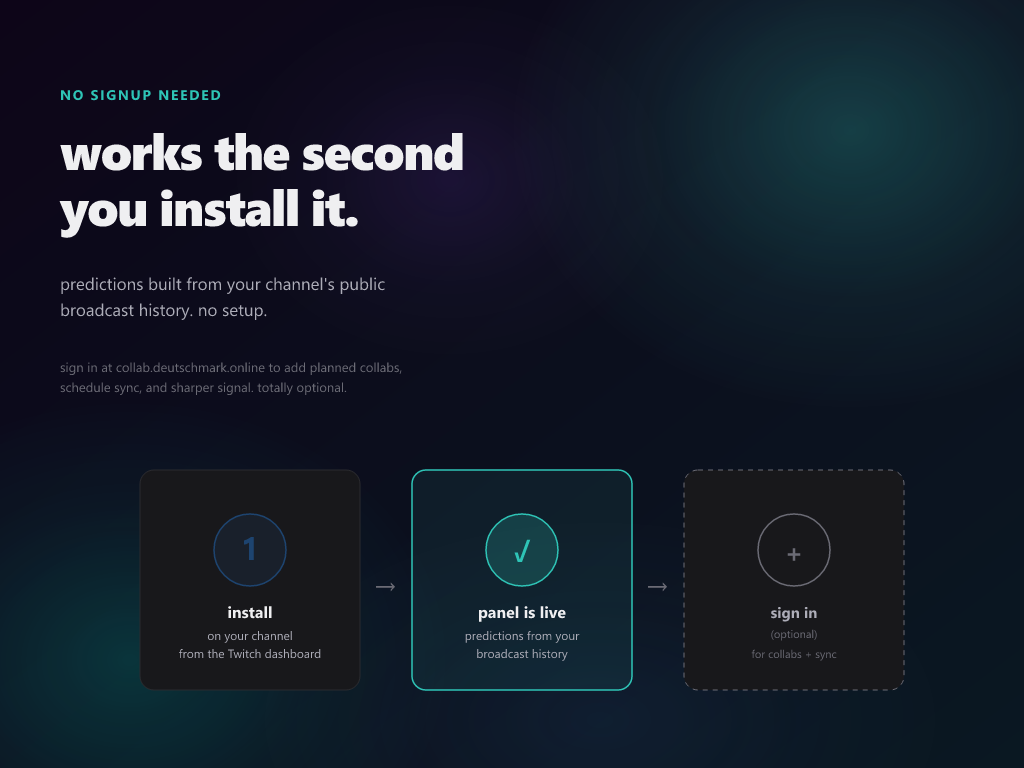
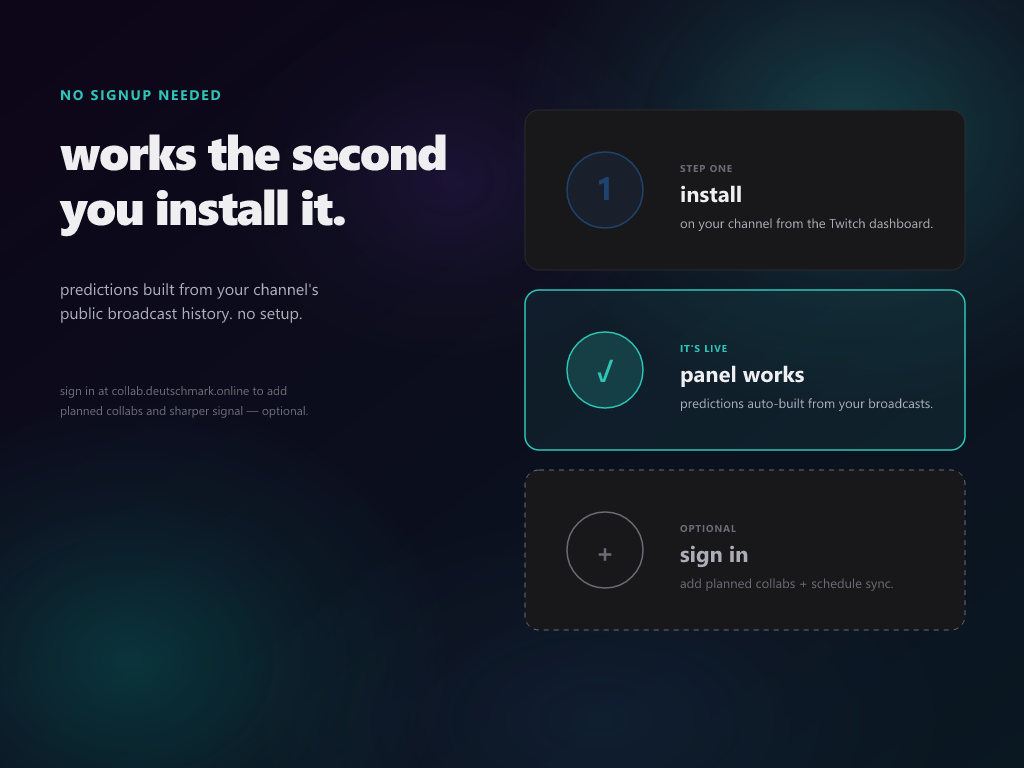
0.12.0: screenshots 1+3 mirror screenshot 2 layout; dead-space fix
Screenshots:
- screenshot-1 restructured: text-block left + 2×2 feature-card grid
  right (next live / week view / recent games / collab teasers).
  Same composition as screenshot 2's color-swatch grid.
- screenshot-3 restructured: text-block left + 3 stacked stage cards
  right (install / panel works / sign in optional). Each card has its
  own state-tag (STEP ONE / IT'S LIVE / OPTIONAL) so they read as a
  vertical reading sequence not 'three boxes in a row'.

Panel dead-space fix:
- body + #root are flex columns spanning the iframe height.
- .powered-by has margin-top: auto so the footer pushes to the bottom
  edge of the 500px slot regardless of content length above.
- For non-CP users or sparse data, content sits at the top and the
  footer anchors the bottom — no awkward void in the middle.
- Limitation noted: Twitch panel height is fixed per manifest, can't
  resize at runtime. The flex-pushed footer is the best workaround
  short of conditional content (e.g. upsell CTA for non-CP users,
  which is a follow-up if needed).

diff --git a/twitch-extension/src/styles.css b/twitch-extension/src/styles.css
@@ -7,9 +7,22 @@ body {
   margin: 0;
   background: #18181b;
   color: #efeff1;
+  min-height: 100vh;
+  display: flex;
+  flex-direction: column;
 }
+/* #root is a flex column inside the iframe. Children sit at their
+   natural heights; the footer uses margin-top: auto to push itself
+   to the bottom, eliminating dead space when content is sparse. */
 #root {
   padding: 14px;
+  flex: 1;
+  display: flex;
+  flex-direction: column;
+  min-height: 0;
+}
+.powered-by {
+  margin-top: auto !important;
 }
 
 /* ── Schedule summary — "Next live" forecast hierarchy ─────────── */
